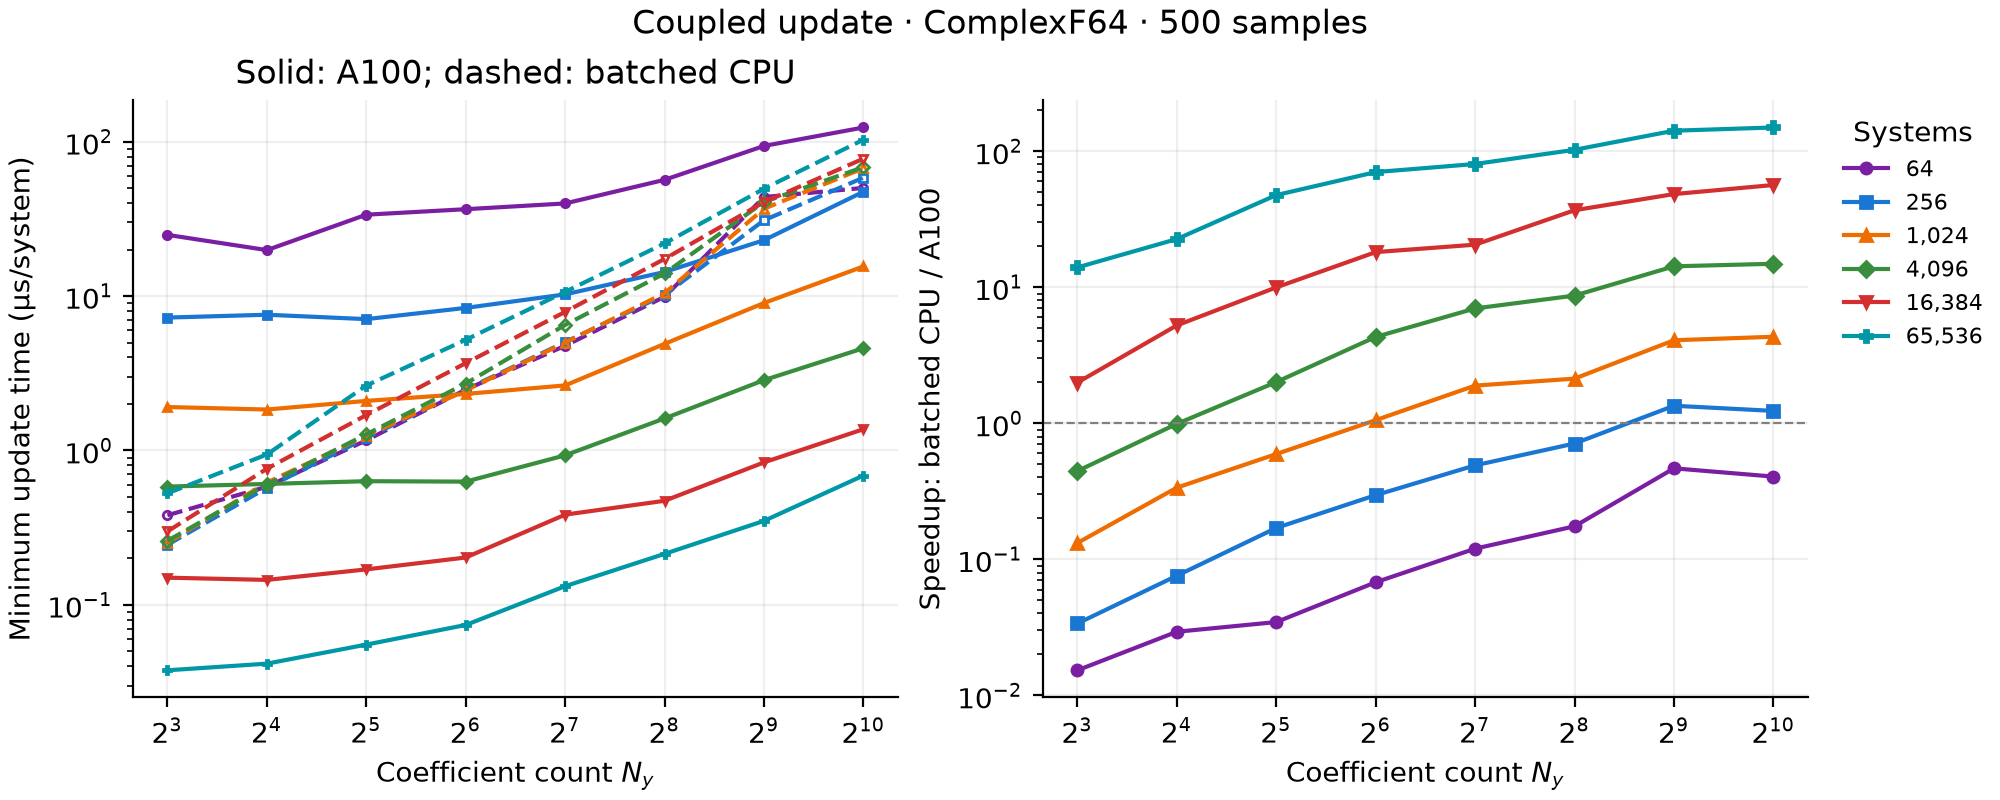
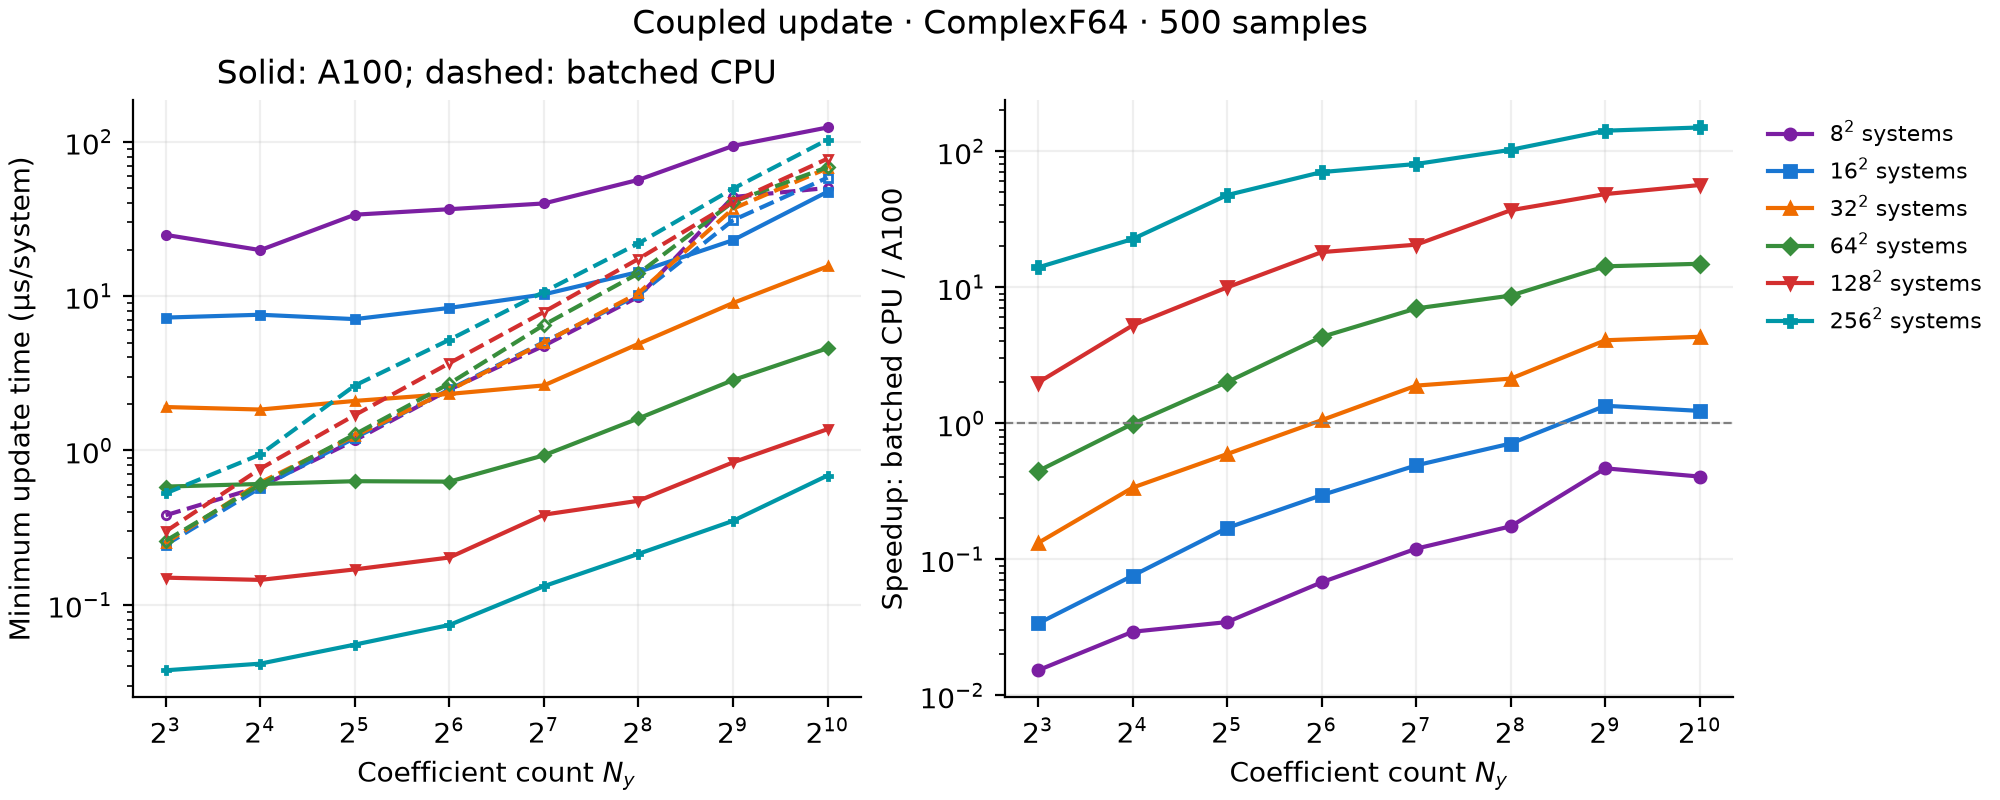
Show benchmark batch sizes as squared system counts
Label the CPU and A100 benchmark curves as 8², 16², 32², 64², 128² and 256² systems. Keep numeric labels for non-square custom batch sizes and regenerate all six current figures from the recorded CSV files.

Validation: plotting scripts completed, CPU and A100 legends visually inspected, and git diff --check passed. No solver changes or benchmark reruns.

diff --git a/perf/plot_devices.py b/perf/plot_devices.py
@@ -1,10 +1,17 @@
 """Plot saved device benchmarks without rerunning the solver."""
 from pathlib import Path
+from math import isqrt
 import csv
 import sys
 import matplotlib
 matplotlib.use('Agg')
 import matplotlib.pyplot as plt
+
+def batch_label(b):
+    """Show square batch sizes as side counts, retaining arbitrary-size support."""
+    n = isqrt(b)
+    return rf"${n}^2$ systems" if n*n == b else f"{b:,} systems"
+
 
 source = Path(sys.argv[1])
 rows = list(csv.DictReader(source.open()))
@@ -24,12 +31,12 @@ if not any(float(r['gpu_solve_seconds']) > 0 for r in rows):
                     continue
                 x = [int(r['Ny']) for r in data]
                 ax.plot(x, [float(r[f'cpu_{operation}_seconds'])*1e6/b for r in data],
-                        color=color, marker=marker, ms=4, label=f'{b:,}')
+                        color=color, marker=marker, ms=4, label=batch_label(b))
             ax.set(yscale='log', xlabel=r'Coefficient count $N_y$', title=kind.capitalize())
             ax.set_xscale('log', base=2)
             ax.grid(alpha=.2)
         axes[0].set_ylabel(f'Minimum {operation} time (µs/system)')
-        axes[1].legend(title='Systems', frameon=False, fontsize=8)
+        axes[1].legend(frameon=False, fontsize=8)
         fig.savefig(source.with_name(source.stem+f'-{operation}.png'))
         plt.close(fig)
 
@@ -44,7 +51,7 @@ if any(float(r['gpu_solve_seconds']) > 0 for r in rows):
                 x = [int(r['Ny']) for r in data]
                 axes[0].plot(x, [float(r[f"cpu_{operation}_seconds"])*1e6/b for r in data], color=color, ls='--', marker=marker, ms=3, mfc='none')
                 axes[0].plot(x, [float(r[f"gpu_{operation}_seconds"])*1e6/b for r in data], color=color, marker=marker, ms=3)
-                axes[1].plot(x, [float(r[f"{operation}_speedup"]) for r in data], color=color, marker=marker, ms=4, label=f'{b:,}')
+                axes[1].plot(x, [float(r[f"{operation}_speedup"]) for r in data], color=color, marker=marker, ms=4, label=batch_label(b))
             for ax in axes:
                 ax.set_xscale('log', base=2)
                 ax.set_xlabel(r'Coefficient count $N_y$')
@@ -53,7 +60,7 @@ if any(float(r['gpu_solve_seconds']) > 0 for r in rows):
             axes[1].set_ylabel('Speedup: batched CPU / A100')
             axes[1].set_yscale('log')
             axes[1].axhline(1, color='grey', ls='--', lw=.8)
-            axes[1].legend(title='Systems', frameon=False, fontsize=8,
+            axes[1].legend(frameon=False, fontsize=8,
                            loc='upper left', bbox_to_anchor=(1.02, 1))
             fig.suptitle(kind.capitalize()+f' {operation} · ComplexF64 · {samples} samples')
             fig.savefig(source.with_name(source.stem+f'-{kind}-{operation}.png'))
